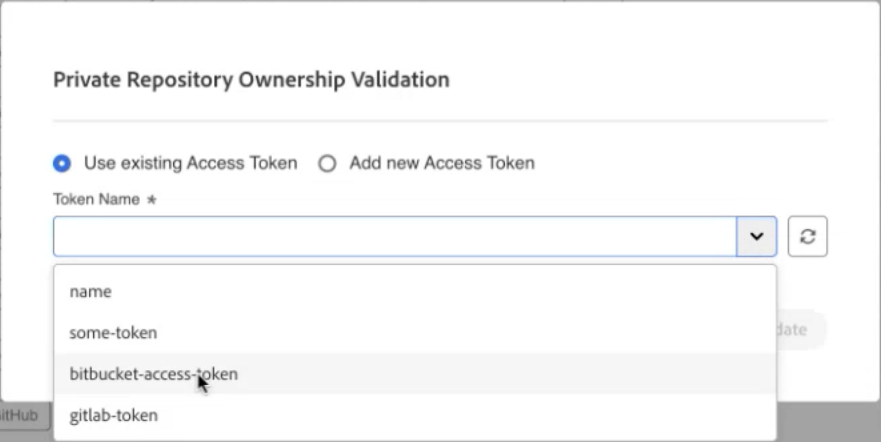
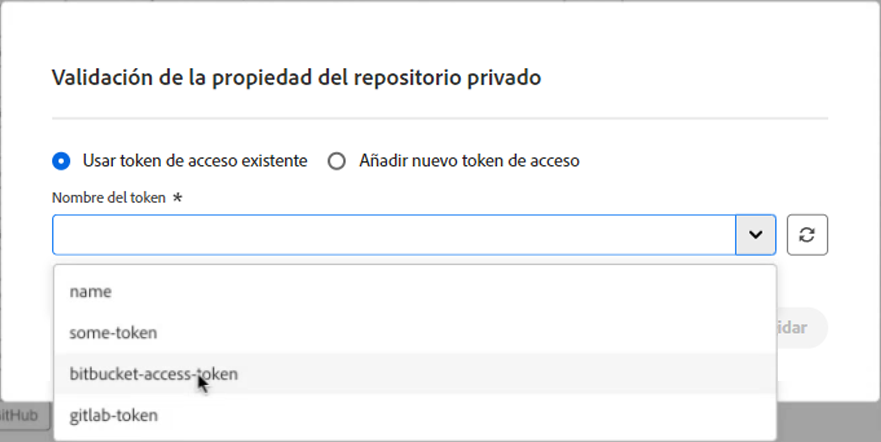
Updated by task 'AUTO_HANDOFF_1728480923932'  Changes for core/source commit https://git.corp.adobe.com/AdobeDocs/experience-manager-cloud-manager.en/commit/593ab468fb09900d061a4d820b8a1a33e2047237

diff --git a/help/managing-code/external-repositories.md b/help/managing-code/external-repositories.md
@@ -1,27 +1,27 @@
 ---
-title: Adición de repositorios externos en Cloud Manager (usuario que los adoptó por primera vez)
-description: Obtenga información sobre cómo añadir un repositorio externo a Cloud Manager. Cloud Manager admite la integración con repositorios de GitHub, GitLab y Bitbucket.
+title: Añadir repositorios externos en Cloud Manager (primeros usuarios)
+description: Obtenga información sobre cómo añadir un repositorio administrado a Adobe en Cloud Manager. Cloud Manager admite la integración con repositorios de GitHub, GitLab y Bitbucket.
 source-git-commit: 054c214be3c8c6e8a8bd4691b70ae2098263ef5b
-workflow-type: tm+mt
+workflow-type: ht
 source-wordcount: '740'
-ht-degree: 6%
+ht-degree: 100%
 
 ---
 
 
-# Adición de repositorios externos en Cloud Manager {#external-repositories}
+# Añadir repositorios privados en Cloud Manager {#external-repositories}
 
-Obtenga información sobre cómo añadir un repositorio externo a Cloud Manager. Cloud Manager admite la integración con repositorios de GitHub, GitLab y Bitbucket.
+Obtenga información sobre cómo añadir un repositorio administrado a Adobe en Cloud Manager. Cloud Manager admite la integración con repositorios de GitHub, GitLab y Bitbucket.
 
 >[!NOTE]
 >
 >Esta funcionalidad solo está disponible para [el programa de clientes pioneros](/help/release-notes/current.md#early-adoption).
 
-## Configuración de un repositorio externo
+## Configurar un repositorio externo
 
 La configuración de un repositorio externo en Cloud Manager consta de tres pasos:
 
-1. [Agregar un repositorio externo](#add-external-repo) a un programa seleccionado.
+1. [Añada un repositorio externo](#add-external-repo) a un programa seleccionado.
 1. Proporcione un token de acceso al repositorio externo.
 1. Valide la propiedad del repositorio externo.
 
@@ -35,11 +35,11 @@ La configuración de un repositorio externo en Cloud Manager consta de tres paso
 
 1. En el menú lateral, en **Servicios**, seleccione ![Icono de carpeta](https://spectrum.adobe.com/static/icons/workflow_18/Smock_Folder_18_N.svg) **Repositorios**.
 
-   ![La página de repositorios](/help/managing-code/assets/repositories-tab.png)
+   ![La página Repositorios](/help/managing-code/assets/repositories-tab.png)
 
-1. Cerca de la esquina superior derecha de la página **Repositorios**, haga clic en **Agregar repositorio**.
+1. Cerca de la esquina superior derecha de la página **Repositorios**, haga clic en **Añadir repositorio**.
 
-1. En el cuadro de diálogo **Agregar repositorio**, seleccione **Repositorio privado** para vincular un repositorio Git externo a su programa.
+1. En el cuadro de diálogo **Añadir repositorio**, seleccione **Repositorio privado** para vincular un repositorio de Git externo a su programa.
 
    ![Añadir su propio repositorio](/help/managing-code/assets/repositories-private-repo-type.png)
 
@@ -47,46 +47,46 @@ La configuración de un repositorio externo en Cloud Manager consta de tres paso
 
    | Campo | Descripción |
    | --- | --- |
-   | **Nombre de repositorio** | Requerido. Un nombre expresivo para el nuevo repositorio. |
-   | **URL del repositorio** | Requerido. La URL del repositorio.<br><br> Si utiliza un repositorio alojado en GitHub, la ruta debe finalizar en `.git`.<br>Por ejemplo, *`https://github.com/org-name/repo-name.git`* (la ruta de URL es solo para fines ilustrativos).<br><br>Si está usando un repositorio externo, debe usar el siguiente formato de ruta de URL:<br>`https://git-vendor-name.com/org-name/repo-name.git`<br> o<br>`https://self-hosted-domain/org-name/repo-name.git`<br>Y coincidir con su proveedor Git. |
-   | **Seleccionar tipo de repositorio** | Requerido. Seleccione el tipo de repositorio que está usando: **GitHub**, **GitLab** o **BitBucket**. Si la ruta de URL del repositorio anterior incluye el nombre del proveedor de Git, como GitLab o Bitbucket, el tipo de repositorio ya estará preseleccionado. |
-   | **Descripción** | Opcional. Una descripción detallada del repositorio. |
+   | **Nombre del repositorio** | Obligatorio. Un nombre expresivo para el nuevo repositorio. |
+   | **URL del repositorio** | Obligatorio. La URL del repositorio.<br><br> Si utiliza un repositorio alojado en GitHub, la ruta debe finalizar en `.git`.<br>Por ejemplo, *`https://github.com/org-name/repo-name.git`* (la ruta de URL es solo para fines ilustrativos).<br><br>Si va a usar un repositorio externo, éste debe usar el siguiente formato de ruta de URL: <br>`https://git-vendor-name.com/org-name/repo-name.git`<br> o <br>`https://self-hosted-domain/org-name/repo-name.git`<br> Y coincidir con su proveedor Git. |
+   | **Seleccionar tipo de repositorio** | Obligatorio. Seleccione el tipo de repositorio que va a usar: **GitHub**, **GitLab** o **BitBucket**. Si la ruta de URL del repositorio anterior incluye el nombre del proveedor de Git, como GitLab o Bitbucket, el tipo de repositorio ya estará preseleccionado. |
+   | **Descripción** | Opcional. Breve descripción del repositorio. |
 
-1. Seleccione **Guardar** para agregar el repositorio.
+1. Seleccione **Guardar** para añadir el repositorio. 
 
-1. En el cuadro de diálogo **Validación de propiedad del repositorio privado**, proporcione un token de acceso para validar la propiedad del repositorio externo y poder obtener acceso a él.
+1. En el cuadro de diálogo **Validación de la propiedad del repositorio privado**, proporcione un token de acceso para validar la propiedad del repositorio externo afín de poder acceder a él.
 
-   ![Seleccionar un token de acceso existente para un repositorio](/help/managing-code/assets/repositories-exisiting-access-token.png)
-   *Seleccionando un token de acceso existente para un repositorio BitBucket.*
+   ![Selección de un token de acceso existente para un repositorio](/help/managing-code/assets/repositories-exisiting-access-token.png)
+   *Selección de un token de acceso existente para un repositorio de BitBucket.*
 
    | Tipo de token | Descripción |
    | --- | --- |
-   | **Usar token de acceso existente** | Si ya ha proporcionado un token de acceso al repositorio para su organización y tiene acceso a varios repositorios, puede seleccionar un token existente. Utilice la lista desplegable **Nombre de token** para elegir el token que desea aplicar al repositorio. De lo contrario, agregue un nuevo token de acceso. |
-   | **Agregar nuevo token de acceso** | **Tipo de repositorio: GitHub**<br>· En el campo de texto **Nombre de token**, escriba un nombre para el token de acceso que está creando.<br>· Cree un token de acceso personal siguiendo las instrucciones de la [documentación de GitHub](https://docs.github.com/en/enterprise-server@3.14/authentication/keeping-your-account-and-data-secure/managing-your-personal-access-tokens).<br>· Permisos necesarios:<br>  · `Read access to metadata`.<br>  · `Read and write access to code and pull requests`.<br>· En el campo **Token de acceso**, pegue el token que acaba de crear. |
-   |  | **Tipo de repositorio: GitLab**<br>· En el campo de texto **Nombre de token**, escriba un nombre para el token de acceso que está creando.<br>· Cree un token de acceso personal siguiendo las instrucciones de la [documentación de GitLab](https://docs.gitlab.com/ee/user/profile/personal_access_tokens.html).<br>· Permisos necesarios:<br>  · `api`<br>  · `read_api`<br>  · `read_repository`<br>  · `write_repository`<br>· En el campo **Token de acceso**, pegue el token que acaba de crear. |
-   |  | **Tipo de repositorio: Bitbucket**<br>· En el campo de texto **Nombre de token**, escriba un nombre para el token de acceso que está creando.<br>· Cree un token de acceso al repositorio con la [documentación de Bitbucket](https://support.atlassian.com/bitbucket-cloud/docs/create-a-repository-access-token/).<br>· Permisos necesarios:<br>  · `Read and write access to code and pull requests`. |
+   | **Usar token de acceso existente** | Si ya ha proporcionado un token de acceso al repositorio para su organización y tiene acceso a varios repositorios, puede seleccionar un token existente. Utilice la lista desplegable **Nombre de token** para elegir el token que desea aplicar al repositorio. De lo contrario, añada un nuevo token de acceso. |
+   | **Añadir nuevo token de acceso** | **Tipo de repositorio: GitHub**<br>• En el campo de texto **Nombre de token**, escriba un nombre para el token de acceso que va a crear.<br>• Cree un token de acceso personal siguiendo las instrucciones de la [documentación de GitHub](https://docs.github.com/es/enterprise-server@3.14/authentication/keeping-your-account-and-data-secure/managing-your-personal-access-tokens).<br>• Permisos necesarios:<br> •  `Read access to metadata`.<br>  • `Read and write access to code and pull requests`.<br>• En el campo **Token de acceso**, pegue el token que acaba de crear. |
+   |  | **Tipo de repositorio: GitLab**<br>•  En el campo de texto **Nombre de token**, escriba un nombre para el token de acceso que va a crear.<br>• Cree un token de acceso personal siguiendo las instrucciones de la [documentación de GitLab](https://docs.gitlab.com/ee/user/profile/personal_access_tokens.html?lang=es).<br>• Permisos necesarios:<br>  • `api`<br>  • `read_api`<br>  • `read_repository`<br>  • `write_repository`<br>• En el campo **Token de acceso**, pegue el token que acaba de crear. |
+   |  | **Tipo de repositorio: Bitbucket**<br>· En el campo de texto **Nombre de token**, escriba un nombre para el token de acceso que va a crear.<br>• Cree un token de acceso al repositorio mediante la [documentación de Bitbucket](https://support.atlassian.com/bitbucket-cloud/docs/create-a-repository-access-token/).<br>• Permisos necesarios:<br>• `Read and write access to code and pull requests`. |
 
    >[!NOTE]
    >
-   >La característica **Agregar nuevo token de acceso** se encuentra actualmente en la fase de adopción anticipada. Se están planificando funciones adicionales. Como resultado, los permisos necesarios para los tokens de acceso pueden cambiar. Además, la interfaz de usuario para administrar tokens se puede actualizar, lo que incluye potencialmente características como las fechas de caducidad de los tokens. Además, realiza comprobaciones automatizadas para garantizar que los tokens vinculados a repositorios siguen siendo válidos.
+   >La característica **Añadir nuevo token de acceso** se encuentra actualmente en la fase para primeros usuarios. Se están planificando funciones adicionales. Como resultado, los permisos necesarios para los tokens de acceso pueden cambiar. Además, la interfaz de usuario para administrar tokens se puede actualizar, lo que incluye potencialmente características como las fechas de caducidad de los tokens. Y comprobaciones automatizadas para garantizar que los tokens vinculados a repositorios siguen siendo válidos.
 
 1. Haga clic en **Validar**.
 
-Después de la validación, el repositorio externo está listo para usarse y se vinculará a una canalización.
+Después de la validación, el repositorio externo estará listo para usarse y vincularse a una canalización.
 
-## Vinculación de un repositorio externo validado a una canalización {#validate-ext-repo}
+## Vincular un repositorio externo validado a una canalización {#validate-ext-repo}
 
-1. Agregar o editar una canalización:
-   * [Agregar una canalización de producción](/help/using/production-pipelines.md)
-   * [Agregar canalizaciones que no sean de producción](/help/using/non-production-pipelines.md)
-   * [Edición de una canalización](/help/using/managing-pipelines.md#editing-pipelines)
+1. Añada o edite una canalización:
+   * [Añadir una canalización de producción](/help/using/production-pipelines.md)
+   * [Añadir canalizaciones que no son de producción](/help/using/non-production-pipelines.md)
+   * [Editar una canalización](/help/using/managing-pipelines.md#editing-pipelines)
 
    ![Repositorio de código fuente de la canalización y rama Git](/help/managing-code/assets/pipeline-repo-gitbranch.png)
-   *Agregar cuadro de diálogo Canalización que no sea de producción con el repositorio seleccionado y la rama Git,*
+   *Cuadro de diálogo Añadir canalización que no es de producción con el repositorio seleccionado y la rama Git.*
 
-1. Al agregar o editar una canalización, para especificar la ubicación de **Source Code** para su canalización nueva o existente, elija el repositorio externo que desee utilizar en la lista desplegable **Repositorio**.
+1. Cuando añada o edite una canalización, para especificar la ubicación del **Código fuente** para su nueva canalización o una existente, elija el repositorio externo que desee utilizar en la lista desplegable **Repositorio**.
 
-1. En la lista desplegable **Rama de Git**, seleccione la rama como origen de la canalización.
+1. En la lista desplegable **Rama Git**, seleccione la rama como origen de la canalización.
 
 1. Haga clic en **Guardar**.
 
@@ -99,4 +99,4 @@ Después de la validación, el repositorio externo está listo para usarse y se 
 ## Limitaciones
 
 * Los repositorios externos no se pueden vincular a las canalizaciones de configuración.
-* Las canalizaciones que usan repositorios externos (excepto los repositorios alojados en GitHub) y la opción **Déclencheur de implementación** [!UICONTROL **En los cambios de Git**], las déclencheur no se inician automáticamente. Se deben iniciar manualmente.
+* En las canalizaciones que usan repositorios externos (excepto los repositorios alojados en GitHub) y en la opción **Activador de la implementación** [!UICONTROL **Cambios en Git**], los activadores no se inician automáticamente. Se deben iniciar manualmente.

diff --git a/help/release-notes/current.md b/help/release-notes/current.md
@@ -3,9 +3,9 @@ title: Notas de la versión 2024.10.0 de Cloud Manager
 description: Estas son las notas de la versión 2024.10.0 de Cloud Manager.
 feature: Release Information
 source-git-commit: 74e8f7c0f3896e0e33a02b62c003db322c0d50d8
-workflow-type: tm+mt
+workflow-type: ht
 source-wordcount: '369'
-ht-degree: 27%
+ht-degree: 100%
 
 ---
 
@@ -23,44 +23,44 @@ Esta página documenta las notas de la versión 2024.10.0 de [!UICONTROL Cloud M
 
 <!-- SAVE FOR FUTURE POSSIBLE USE No notable bugs or features for the September release of Cloud Manager. -->
 
-La fecha de la versión de [!UICONTROL Cloud Manager] 2024.10.0 es el 3 de octubre de 2024.
+La fecha de lanzamiento de la versión 2024.10.0 de [!UICONTROL Cloud Manager] es el 3 de octubre de 2024. 
 
-La próxima versión está planificada para el viernes, 14 de noviembre de 2024.
+La próxima versión está planificada para el 14 de noviembre de 2024.
 
 
 
 ## Novedades {#what-is-new}
 
-* <!-- BOTH CS & AMS --> AEM La versión del tipo de archivo utilizada en Cloud Manager ahora se actualiza a la versión 26. Ver [https://github.com/adobe/aem-project-archetype/releases](https://github.com/adobe/aem-project-archetype/releases)
+* <!-- BOTH CS & AMS --> La versión del arquetipo de AEM utilizada en Cloud Manager se ha actualizado ya a la versión 26. Consulte [https://github.com/adobe/aem-project-archetype/releases](https://github.com/adobe/aem-project-archetype/releases)
 <!-- (CMGR-59817) -->
 
 
 
 ## Programa para primeros usuarios {#early-adoption}
 
-Forme parte del programa de adopción anticipada de Cloud Manager y tenga la oportunidad de probar las próximas funciones.
+Participe en nuestro programa para primeros usuarios de Cloud Manager y tenga la oportunidad de probar algunas de las próximas funciones.
 
-### Traiga su propio Git: ahora con soporte para GitLab y Bitbucket {#gitlab-bitbucket}
+### Usar su propio Git: ahora se admiten GitLab y Bitbucket {#gitlab-bitbucket}
 
 <!-- BOTH CS & AMS -->
 
-La función **Traer tu propio Git** se ha ampliado para incluir compatibilidad con repositorios externos como GitLab y Bitbucket. Esta nueva compatibilidad se suma a la compatibilidad ya existente con repositorios de GitHub privados y empresariales. Al añadir estos nuevos repositorios, también puede vincularlos directamente a sus canalizaciones. Puede alojar estos repositorios en plataformas de nube públicas o dentro de su infraestructura o nube privada. Esta integración también elimina la necesidad de una sincronización constante del código con el repositorio de Adobe y proporciona la capacidad de validar las solicitudes de extracción antes de combinarlas en una rama principal.
+La función **Usar su propio Git** se ha ampliado para incluir compatibilidad con repositorios externos como GitLab y Bitbucket. Esta nueva compatibilidad se suma a la compatibilidad ya existente con repositorios de GitHub privados y de empresa. Al añadir estos nuevos repositorios, también puede vincularlos directamente a sus canalizaciones. Puede alojar estos repositorios en plataformas públicas en la nube o dentro de su infraestructura o nube privada. Esta integración también elimina la necesidad de sincronización constante del código con el repositorio de Adobe y proporciona la capacidad de validar las solicitudes de extracción antes de combinarlas en una rama principal.
 
-Consulte [Agregar repositorios externos en Cloud Manager](/help/managing-code/external-repositories.md).
+Consulte [Adición de repositorios externos en Cloud Manager](/help/managing-code/external-repositories.md).
 
-![Cuadro de diálogo Agregar repositorio](/help/release-notes/assets/repositories-add-release-notes.png)
+![Cuadro de diálogo Añadir repositorio](/help/release-notes/assets/repositories-add-release-notes.png)
 
 >[!NOTE]
 >
 >Actualmente, las comprobaciones de calidad del código de las solicitudes de extracción listas para usar son exclusivas de los repositorios alojados en GitHub, pero se está trabajando en una actualización para ampliar esta funcionalidad a otros proveedores de Git.
 
-Si está interesado en probar esta nueva característica y compartir sus comentarios, envíe un mensaje de correo electrónico a [Grp-CloudManager_BYOG@adobe.com](mailto:Grp-CloudManager_BYOG@adobe.com) desde su dirección de correo electrónico asociada a su Adobe ID. Asegúrese de incluir qué plataforma Git desea utilizar y si se encuentra en una estructura de repositorio privada/pública o empresarial.
+Si le interesa probar esta nueva función y compartir sus comentarios, envíe un correo electrónico a [Grp-CloudManager_BYOG@adobe.com](mailto:Grp-CloudManager_BYOG@adobe.com) desde su dirección de correo electrónico asociada a su Adobe ID. Asegúrese de incluir qué plataforma Git desea utilizar y si se encuentra en una estructura de repositorio privado/público o de empresa.
 
 ### Canalizaciones solo de fase y de producción {#staging-production-only-pipelines}
 
-El Adobe anuncia la introducción de la compatibilidad con [canalizaciones solo de ensayo y de producción](/help/using/stage-prod-only.md). Esta nueva función le permite dividir las canalizaciones de implementación de producción de pila completa en implementaciones más pequeñas y especializadas.
+Adobe se complace en presentar la compatibilidad con [canalizaciones solo de fase y solo de producción](/help/using/stage-prod-only.md). Esta nueva función le permite dividir las canalizaciones de implementación de producción de pila completa en implementaciones más pequeñas y especializadas.
 
-Si desea probar esta función y proporcionar comentarios, envíe un mensaje de correo electrónico a [Grp-cloudmanager_splitpipelines@adobe.com](mailto:Grp-cloudmanager_splitpipelines@adobe.com) desde la dirección de correo electrónico asociada a su Adobe ID.
+Si le interesa probar esta nueva funcionalidad y compartir sus comentarios, envíe un correo electrónico a [ Grp-cloudmanager_splitpipelines@adobe.com](mailto:Grp-cloudmanager_splitpipelines@adobe.com) desde su dirección de correo electrónico asociada a su Adobe ID.
 
 <!-- ## Bug fixes
 

diff --git a/help/main-toc/TOC.md b/help/main-toc/TOC.md
@@ -8,9 +8,9 @@ feature-set: Experience Manager Cloud Manager, Experience Manager
 feature: Cloud Manager
 role: Admin
 source-git-commit: 1209faf71edbd74cd87acfe24ec438b98ddd4a3a
-workflow-type: tm+mt
+workflow-type: ht
 source-wordcount: '342'
-ht-degree: 71%
+ht-degree: 100%
 
 ---
 
@@ -46,7 +46,7 @@ ht-degree: 71%
    + Canalizaciones de CI/CD {#pipelines}
       + [Configuración de una canalización de producción](/help/using/production-pipelines.md)
       + [Añadir una canalización que no es de producción](/help/using/non-production-pipelines.md)
-      + [Dividir canalizaciones de fase y solo producción (pionero)](/help/using/stage-prod-only.md)
+      + [Dividir canalizaciones de fase y producción (primeros usuarios)](/help/using/stage-prod-only.md)
       + [Administrar canalizaciones](/help/using/managing-pipelines.md)
    + [Implementación de código](/help/using/code-deployment.md)
    + [Prueba de calidad del código](/help/using/code-quality-testing.md)
@@ -57,17 +57,17 @@ ht-degree: 71%
    + [Notificaciones](/help/using/notifications.md)
    + [Reglas de calidad de código personalizadas](/help/using/custom-code-quality-rules.md)
    + [Copia de contenido](/help/using/content-copy.md)
-+ Administrar código {#managing-code}
++ Gestionar el código {#managing-code}
    + [Administración de repositorios en Cloud Manager](/help/managing-code/managing-repositories.md)
    + [Información de acceso al repositorio](/help/managing-code/accessing-repositories.md)
-   + [Añadir un repositorio de Adobe](/help/managing-code/adobe-repositories.md)
-   + [Añadir un repositorio privado](/help/managing-code/private-repositories.md)
-   + [Añadir un repositorio externo (usuario que lo adoptó por primera vez)](/help/managing-code/external-repositories.md)
+   + [Adición de un repositorio de Adobe](/help/managing-code/adobe-repositories.md)
+   + [Adición de un repositorio privado](/help/managing-code/private-repositories.md)
+   + [Añadir un repositorio externo (primeros usuarios)](/help/managing-code/external-repositories.md)
    + [Compatibilidad con los submódulos de Git](/help/managing-code/git-submodules.md)
    + [Configuración de comprobación de GitHub](/help/managing-code/github-check-config.md)
    + [Anotaciones de comprobación de GitHub](/help/managing-code/github-annotations.md)
    + [Administrar versiones del proyecto de Maven](/help/managing-code/maven-project-version.md)
-   + [Integración con Git](/help/managing-code/git-integration.md)
+   + [Integrarse con Git](/help/managing-code/git-integration.md)
    + [Trabajar con varios repositorios de Git](/help/managing-code/multiple-git-repos.md)
 + Asistente para la actualización de productos {#product-update-wizard}
    + [Información general](/help/product-update-wizard/overview.md)
@@ -136,7 +136,7 @@ ht-degree: 71%
       + [2020.2.0](/help/release-notes/2020/2020-2-0.md)
       + [2020.1.0](/help/release-notes/2020/2020-1-0.md)
    + 2019 {#rn-2019}
-      + [12.0.0.0.0](/help/release-notes/2019/2019-12-0.md)
+      + [2019.12.0](/help/release-notes/2019/2019-12-0.md)
       + [2019.11.0](/help/release-notes/2019/2019-11-0.md)
       + [2019.10.0](/help/release-notes/2019/2019-10-0.md)
       + [2019.9.0](/help/release-notes/2019/2019-9-0.md)

diff --git a/help/using/managing-pipelines.md b/help/using/managing-pipelines.md
@@ -1,18 +1,18 @@
 ---
 title: Administrar canalizaciones
-description: Obtenga información sobre cómo administrar las canalizaciones existentes, incluido ejecutarlas, editarlas y eliminarlas.
+description: Aprenda a administrar las canalizaciones existentes, así como su edición, ejecución y eliminación.
 exl-id: e36420d2-57c5-4375-99fb-dd47c1c8bffd
 source-git-commit: 9d910e1b1a4aad000a8389ddc22ce380bbccd4ef
-workflow-type: tm+mt
+workflow-type: ht
 source-wordcount: '840'
-ht-degree: 89%
+ht-degree: 100%
 
 ---
 
 
 # Administrar canalizaciones {#managing-pipelines}
 
-Obtenga información sobre cómo administrar las canalizaciones existentes, incluido ejecutarlas, editarlas y eliminarlas.
+Aprenda a administrar las canalizaciones existentes, así como su edición, ejecución y eliminación.
 
 ## Tarjeta de canalizaciones {#pipeline-card}
 
@@ -36,11 +36,11 @@ En la parte inferior de la lista de canalizaciones, tiene opciones generales.
 
 ## Página Canalizaciones {#pipelines}
 
-La página **Canalizaciones** muestra una lista completa de todas las canalizaciones del programa seleccionado. Esto resulta útil, ya que presenta información más completa que la disponible en la [Tarjeta de canalizaciones](#pipeline-card).
+La página **Canalizaciones** muestra una lista completa de todas las canalizaciones para el programa seleccionado. Esto resulta útil, ya que presenta información más completa que la disponible en la [Tarjeta de canalizaciones](#pipeline-card).
 
 1. Inicie sesión en Cloud Manager en [my.cloudmanager.adobe.com](https://my.cloudmanager.adobe.com/) y seleccione la organización y programa adecuados.
 
-1. En la página **Resumen del programa**, haga clic en la ficha **Canalizaciones** para cambiar a la página **Canalizaciones**.
+1. En la página **Resumen del programa**, haga clic en **Canalizaciones** para cambiar a la página **Canalizaciones**.
 
 1. Aquí puede ver una lista de todas las canalizaciones para el programa, así como iniciar y detener la ejecución de la canalización como lo haría en la **Tarjeta de canalizaciones**.
 
@@ -50,13 +50,13 @@ Al pulsar o hacer clic en el icono `i` se muestran detalles sobre la última o l
 
 Hacer clic en **Ver detalles** le llevará a los [detalles de la ejecución de la canalización](#view-details).
 
-## Página de actividad {#activity}
+## Página Actividad {#activity}
 
 La página **Actividades** muestra una lista completa de todas las ejecuciones de canalizaciones para el programa seleccionado.
 
 1. Inicie sesión en Cloud Manager en [my.cloudmanager.adobe.com](https://my.cloudmanager.adobe.com/) y seleccione la organización y programa adecuados.
 
-1. En la página **Información general del programa**, haga clic en la ficha **Actividad** para cambiar a la página **Actividad**.
+1. En la página **Resumen del programa**, haga clic en la pestaña **Actividad** para cambiar a la página **Actividad**.
 
 1. Aquí puede ver una lista de todas las ejecuciones de canalización del programa, incluidas las ejecuciones actuales e históricas.
 

diff --git a/help/using/non-production-pipelines.md b/help/using/non-production-pipelines.md
@@ -1,11 +1,11 @@
 ---
-title: Agregar una canalización que no sea de producción
+title: Adición de una canalización que no es de producción
 description: Aprenda a utilizar Cloud Manager para crear y configurar canalizaciones que no son de producción e implementar su código.
 exl-id: ccf4b4a2-6e29-4ede-821c-36318b568e5c
 source-git-commit: 1209faf71edbd74cd87acfe24ec438b98ddd4a3a
-workflow-type: tm+mt
+workflow-type: ht
 source-wordcount: '688'
-ht-degree: 98%
+ht-degree: 100%
 
 ---
 
@@ -31,7 +31,7 @@ Existen dos tipos de canalizaciones que no son de producción:
 >
 >No se puede configurar una canalización hasta que su repositorio de Git asociado tenga al menos una rama y la [configuración del programa](/help/getting-started/program-setup.md) haya finalizado. Consulte el documento [Repositorios de Cloud Manager](/help/managing-code/managing-repositories.md) para aprender a añadir y administrar repositorios en Cloud Manager.
 
-## Agregar una nueva canalización que no sea de producción {#add-non-production-pipeline}
+## Adición de una nueva canalización que no es de producción {#add-non-production-pipeline}
 
 Una vez que haya configurado el programa y tenga al menos un entorno utilizando la interfaz de usuario de Cloud Manager, estará listo para agregar una canalización que no sea de producción siguiendo estos pasos.
 

diff --git a/help/using/production-pipelines.md b/help/using/production-pipelines.md
@@ -1,16 +1,16 @@
 ---
-title: Agregar una canalización de producción
+title: Añadir una canalización de producción
 description: Aprenda a utilizar Cloud Manager para crear y configurar canalizaciones de producción para implementar su código.
 exl-id: d489fa3c-df1e-480b-82d0-ac8cce78a710
 source-git-commit: 1209faf71edbd74cd87acfe24ec438b98ddd4a3a
-workflow-type: tm+mt
+workflow-type: ht
 source-wordcount: '1249'
-ht-degree: 99%
+ht-degree: 100%
 
 ---
 
 
-# Agregar una canalización de producción {#configuring-production-pipelines}
+# Añadir una canalización de producción {#configuring-production-pipelines}
 
 Aprenda a utilizar Cloud Manager para crear y configurar canalizaciones de producción para implementar su código. Si desea conocer primero una descripción general más conceptual del funcionamiento de las canalizaciones en Cloud Manager, consulte el documento [Canalizaciones de CI/CD](/help/overview/ci-cd-pipelines.md).
 

diff --git a/help/managing-code/private-repositories.md b/help/managing-code/private-repositories.md
@@ -4,9 +4,9 @@ description: Obtenga información sobre cómo configurar Cloud Manager para que 
 feature: Release Information
 exl-id: e0d103c9-c147-4040-bf53-835e93d78a0b
 source-git-commit: 5090d7ee9a6742d71122acda9901d074bc254305
-workflow-type: tm+mt
+workflow-type: ht
 source-wordcount: '818'
-ht-degree: 96%
+ht-degree: 100%
 
 ---
 
@@ -124,11 +124,11 @@ Cuando se cierra o se combina la solicitud de extracción, la canalización de c
 
 ## Asociación de repositorios privados con canalizaciones {#pipelines}
 
-Los repositorios privados validados se pueden asociar con [canalizaciones full-stack y front-end](/help/overview/ci-cd-pipelines.md).
+Los repositorios privados validados se pueden asociar a [canalizaciones de pila completa y front-end.](/help/overview/ci-cd-pipelines.md)
 
 
 
-## Restricciones {#limitations}
+## Limitaciones {#limitations}
 
 Se aplican ciertas restricciones al usar repositorios privados con Cloud Manager.
 

diff --git a/help/managing-code/accessing-repositories.md b/help/managing-code/accessing-repositories.md
@@ -3,7 +3,7 @@ title: Información de acceso al repositorio
 description: Obtenga información sobre cómo acceder y gestionar sus repositorios de Git administrados por Adobe mediante la administración de cuentas de Git de autoservicio desde Cloud Manager.
 exl-id: 1cc88c82-67c7-4553-a1b8-d2ab22be466c
 source-git-commit: 04fbc4a3fdba8b108055d66a4fdb1a31994cb18e
-workflow-type: tm+mt
+workflow-type: ht
 source-wordcount: '381'
 ht-degree: 100%
 

diff --git a/help/release-notes/2024/2024-9-0.md b/help/release-notes/2024/2024-9-0.md
@@ -3,7 +3,7 @@ title: Notas de la versión 2024.9.0 de Cloud Manager
 description: Estas son las notas de la versión 2024.9.0 de Cloud Manager.
 feature: Release Information
 source-git-commit: 9d910e1b1a4aad000a8389ddc22ce380bbccd4ef
-workflow-type: tm+mt
+workflow-type: ht
 source-wordcount: '184'
 ht-degree: 100%
 
